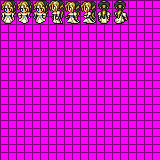
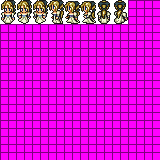
Began testing Slick2D.

diff --git a/src/com/mattdavben/emeraldsisters/core/PlayState.java b/src/com/mattdavben/emeraldsisters/core/PlayState.java
@@ -1,0 +1,98 @@
+package com.mattdavben.emeraldsisters.core;
+
+import org.newdawn.slick.Animation;
+import org.newdawn.slick.GameContainer;
+import org.newdawn.slick.Graphics;
+import org.newdawn.slick.Image;
+import org.newdawn.slick.Input;
+import org.newdawn.slick.SlickException;
+import org.newdawn.slick.SpriteSheet;
+import org.newdawn.slick.state.BasicGameState;
+import org.newdawn.slick.state.StateBasedGame;
+
+public class PlayState extends BasicGameState {
+
+	Animation player, playerWalkingUp, playerWalkingDown, playerWalkingLeft, playerWalkingRight;
+	SpriteSheet sheet;
+	int[] animationLength = { 150, 150, 150, 150 };
+	Image level;
+	float playerPositionX = 0;
+	float playerPositionY = 0;
+	float shiftX = playerPositionX + 320;
+	float shiftY = playerPositionY + 160;
+
+	public PlayState(int state) {
+	}
+
+	public int getID() {
+		return 1;
+	}
+
+	public void init(GameContainer container, StateBasedGame sbg) throws SlickException {
+		sheet = new SpriteSheet(new Image("res/Kate.png"), 16, 24);
+		Image down0 = sheet.getSubImage(0, 0);
+		Image down1 = sheet.getSubImage(1, 0);
+		Image down2 = sheet.getSubImage(2, 0);
+		Image left0 = sheet.getSubImage(3, 0);
+		Image left1 = sheet.getSubImage(4, 0);
+		Image left2 = sheet.getSubImage(5, 0);
+		Image up0 = sheet.getSubImage(6, 0);
+		Image up1 = sheet.getSubImage(7, 0);
+		level = new Image("res/levels/testMap.png");
+
+		Image[] walkingDown = { down0, down1, down0, down2 };
+		Image[] walkingUp = { up0, up1, up0.getFlippedCopy(true, false), up1.getFlippedCopy(true, false) };
+		Image[] walkingLeft = { left0, left1, left0, left2 };
+		Image[] walkingRight = { left0.getFlippedCopy(true, false), left1.getFlippedCopy(true, false), left0.getFlippedCopy(true, false), left2.getFlippedCopy(true, false), };
+
+		playerWalkingDown = new Animation(walkingDown, animationLength, false);
+		playerWalkingUp = new Animation(walkingUp, animationLength, false);
+		playerWalkingLeft = new Animation(walkingLeft, animationLength, false);
+		playerWalkingRight = new Animation(walkingRight, animationLength, false);
+		player = playerWalkingDown;
+	}
+
+	public void leave(GameContainer container, StateBasedGame sbg) throws SlickException {
+	}
+
+	public void render(GameContainer container, StateBasedGame sbg, Graphics g) throws SlickException {
+		level.draw(playerPositionX, playerPositionY);
+		player.draw(shiftX, shiftY);
+	}
+
+	public void update(GameContainer container, StateBasedGame sbg, int delta) throws SlickException {
+		Input input = container.getInput();
+		if (input.isKeyDown(Input.KEY_UP)) {
+			player = playerWalkingUp;
+			player.update(delta);
+			playerPositionY += delta * .1f;
+			if (playerPositionY > 162) {
+				playerPositionY -= delta * .1f;
+			}
+		}
+		if (input.isKeyDown(Input.KEY_DOWN)) {
+			player = playerWalkingDown;
+			player.update(delta);
+			playerPositionY -= delta * .1f;
+			if (playerPositionY < -600) {
+				playerPositionY += delta * .1f;
+			}
+		}
+		if (input.isKeyDown(Input.KEY_LEFT)) {
+			player = playerWalkingLeft;
+			player.update(delta);
+			playerPositionX += delta * .1f;
+			if (playerPositionX > 324) {
+				playerPositionX -= delta * .1f;
+			}
+		}
+		if (input.isKeyDown(Input.KEY_RIGHT)) {
+			player = playerWalkingRight;
+			player.update(delta);
+			playerPositionX -= delta * .1f;
+			if (playerPositionX < -840) {
+				playerPositionX += delta * .1f;
+			}
+		}
+	}
+}

diff --git a/src/com/mattdavben/emeraldsisters/core/Main.java b/src/com/mattdavben/emeraldsisters/core/Main.java
@@ -1,0 +1,35 @@
+package com.mattdavben.emeraldsisters.core;
+
+import org.newdawn.slick.AppGameContainer;
+import org.newdawn.slick.GameContainer;
+import org.newdawn.slick.SlickException;
+import org.newdawn.slick.state.StateBasedGame;
+
+public class Main extends StateBasedGame {
+
+	private final static String NAME = "Emerald Sisters | Pre-Alpha 0.1.0";
+	public static final int play = 1;
+
+	public Main(String name) {
+		super(name);
+		this.addState(new PlayState(play));
+	}
+
+	public void initStatesList(GameContainer container) throws SlickException {
+		this.getState(play).init(container, this);
+		this.enterState(play);
+	}
+
+	public static void main(String[] argv) {
+		AppGameContainer agc;
+		try {
+			agc = new AppGameContainer(new Main(NAME));
+			agc.setDisplayMode(800, 600, false);
+			agc.start();
+		} catch (SlickException e) {
+			e.printStackTrace();
+		}
+
+	}
+
+}
